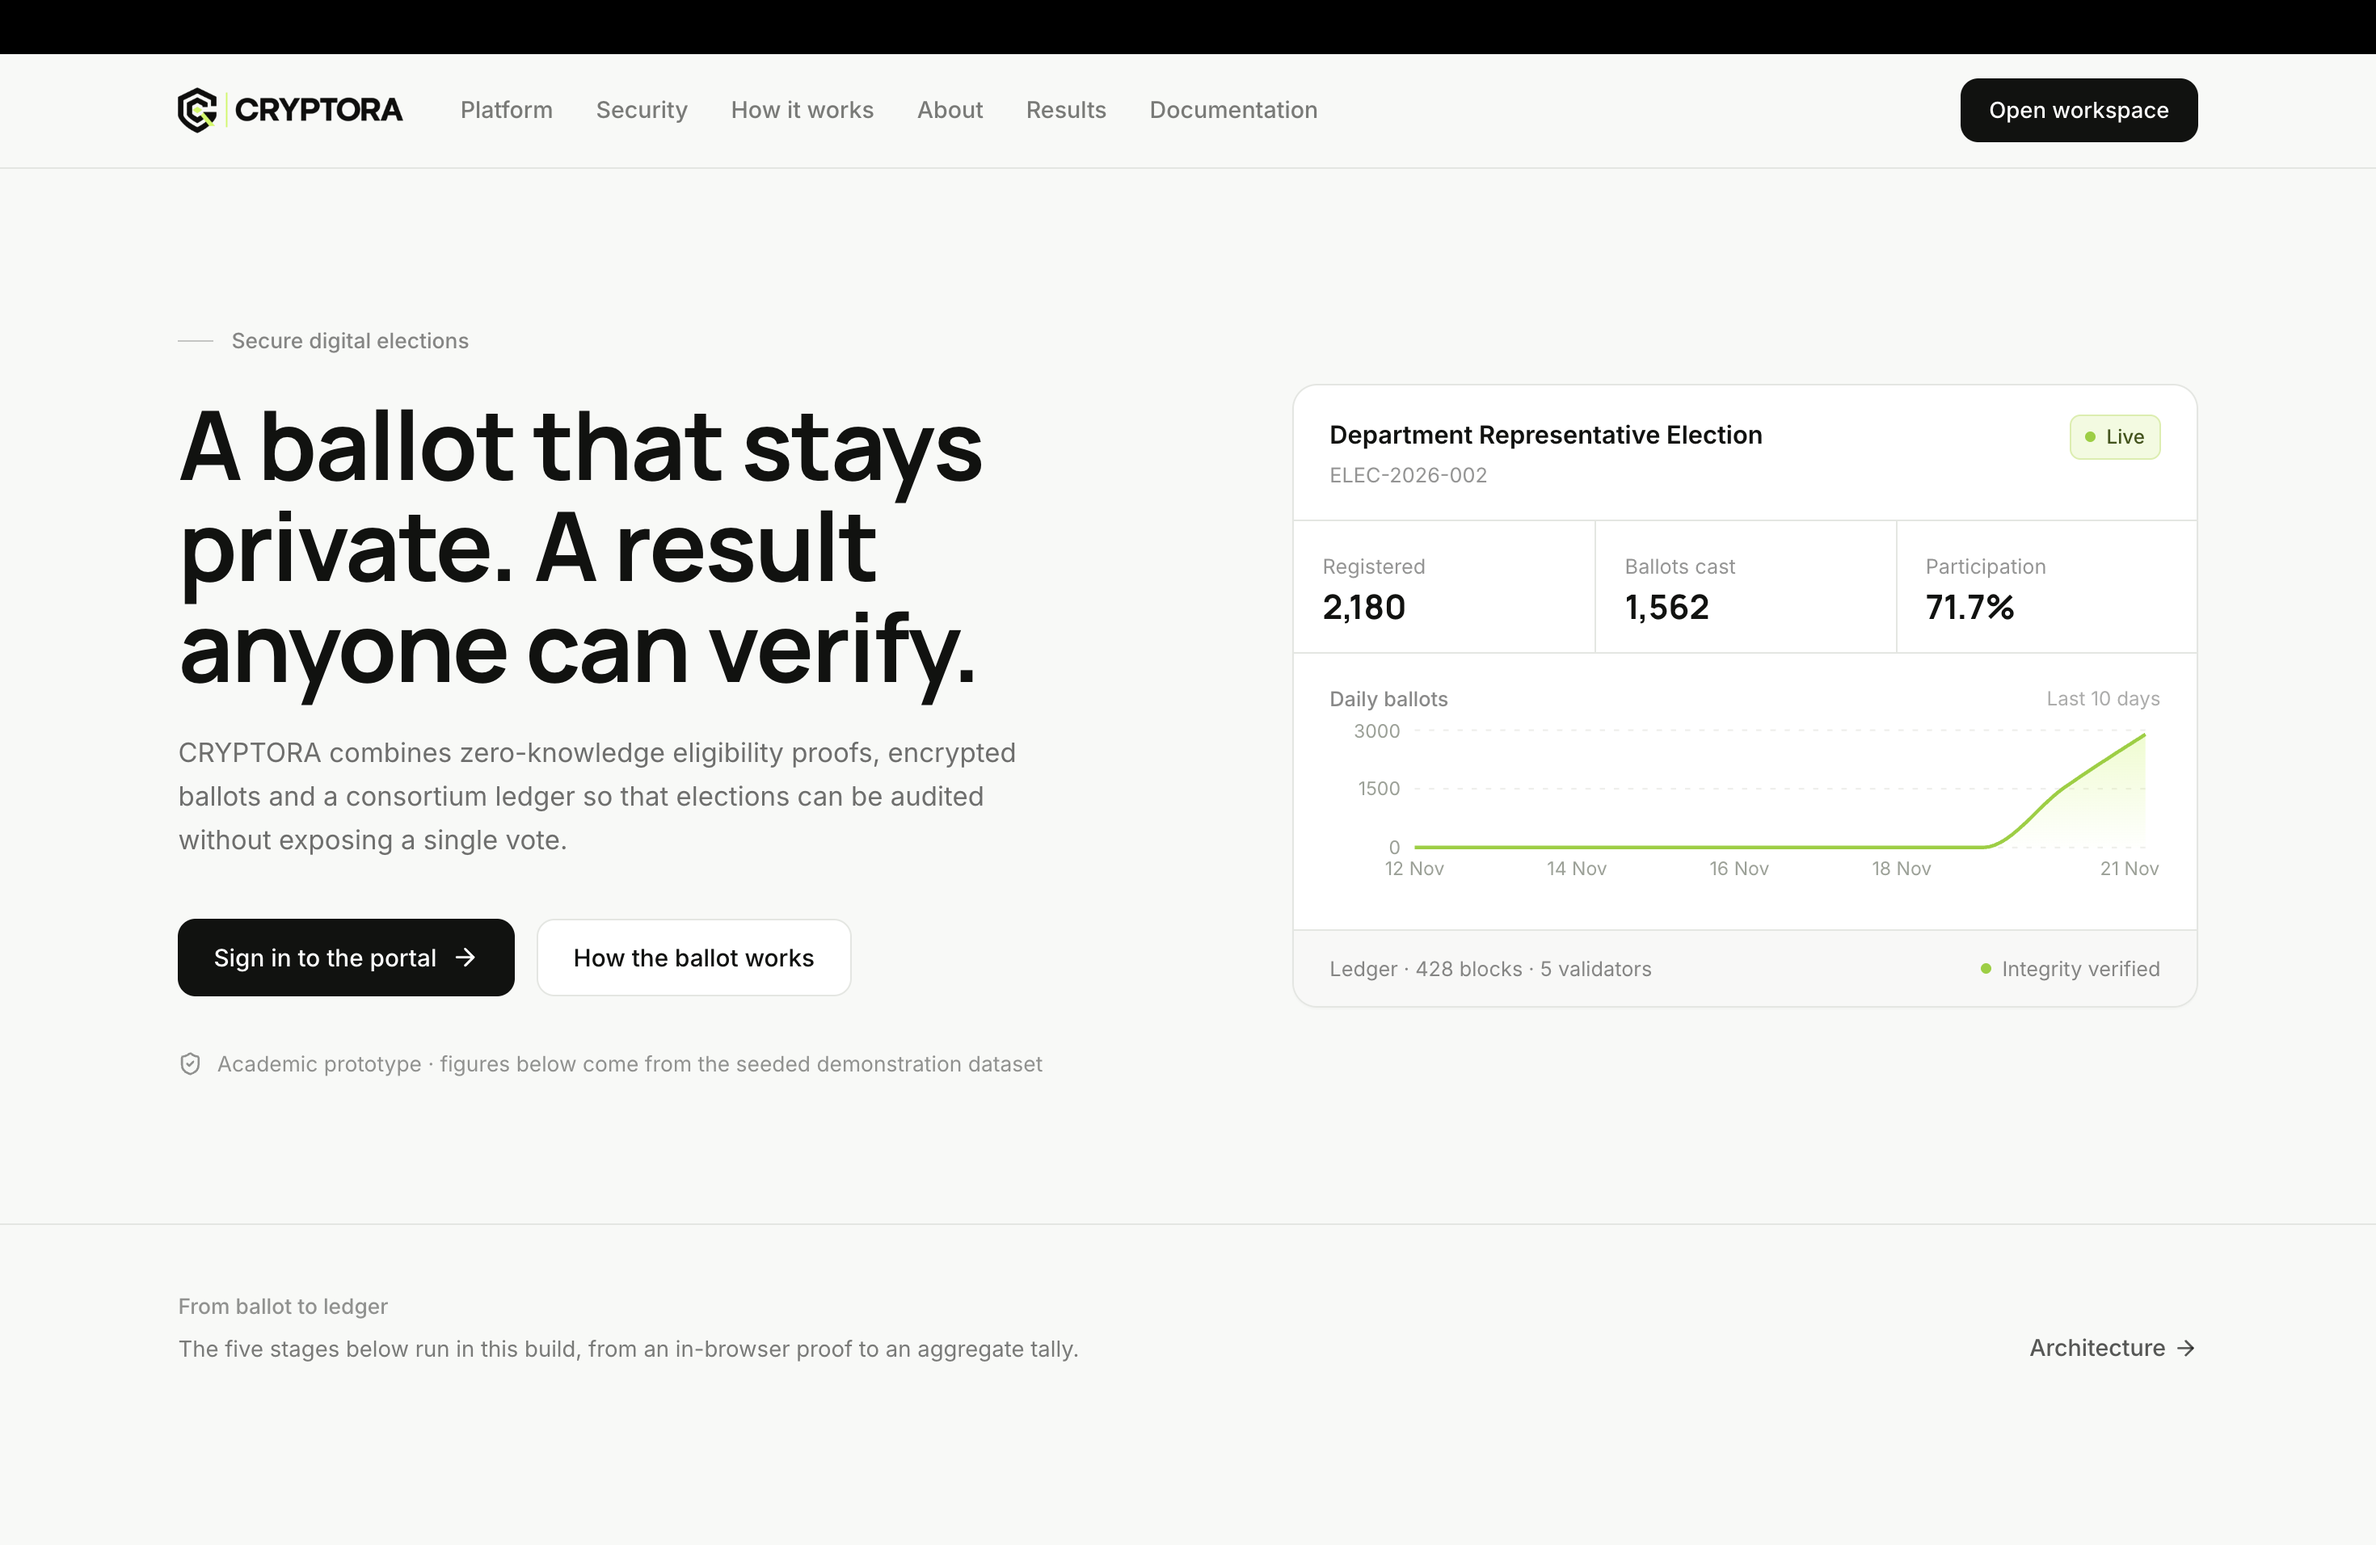
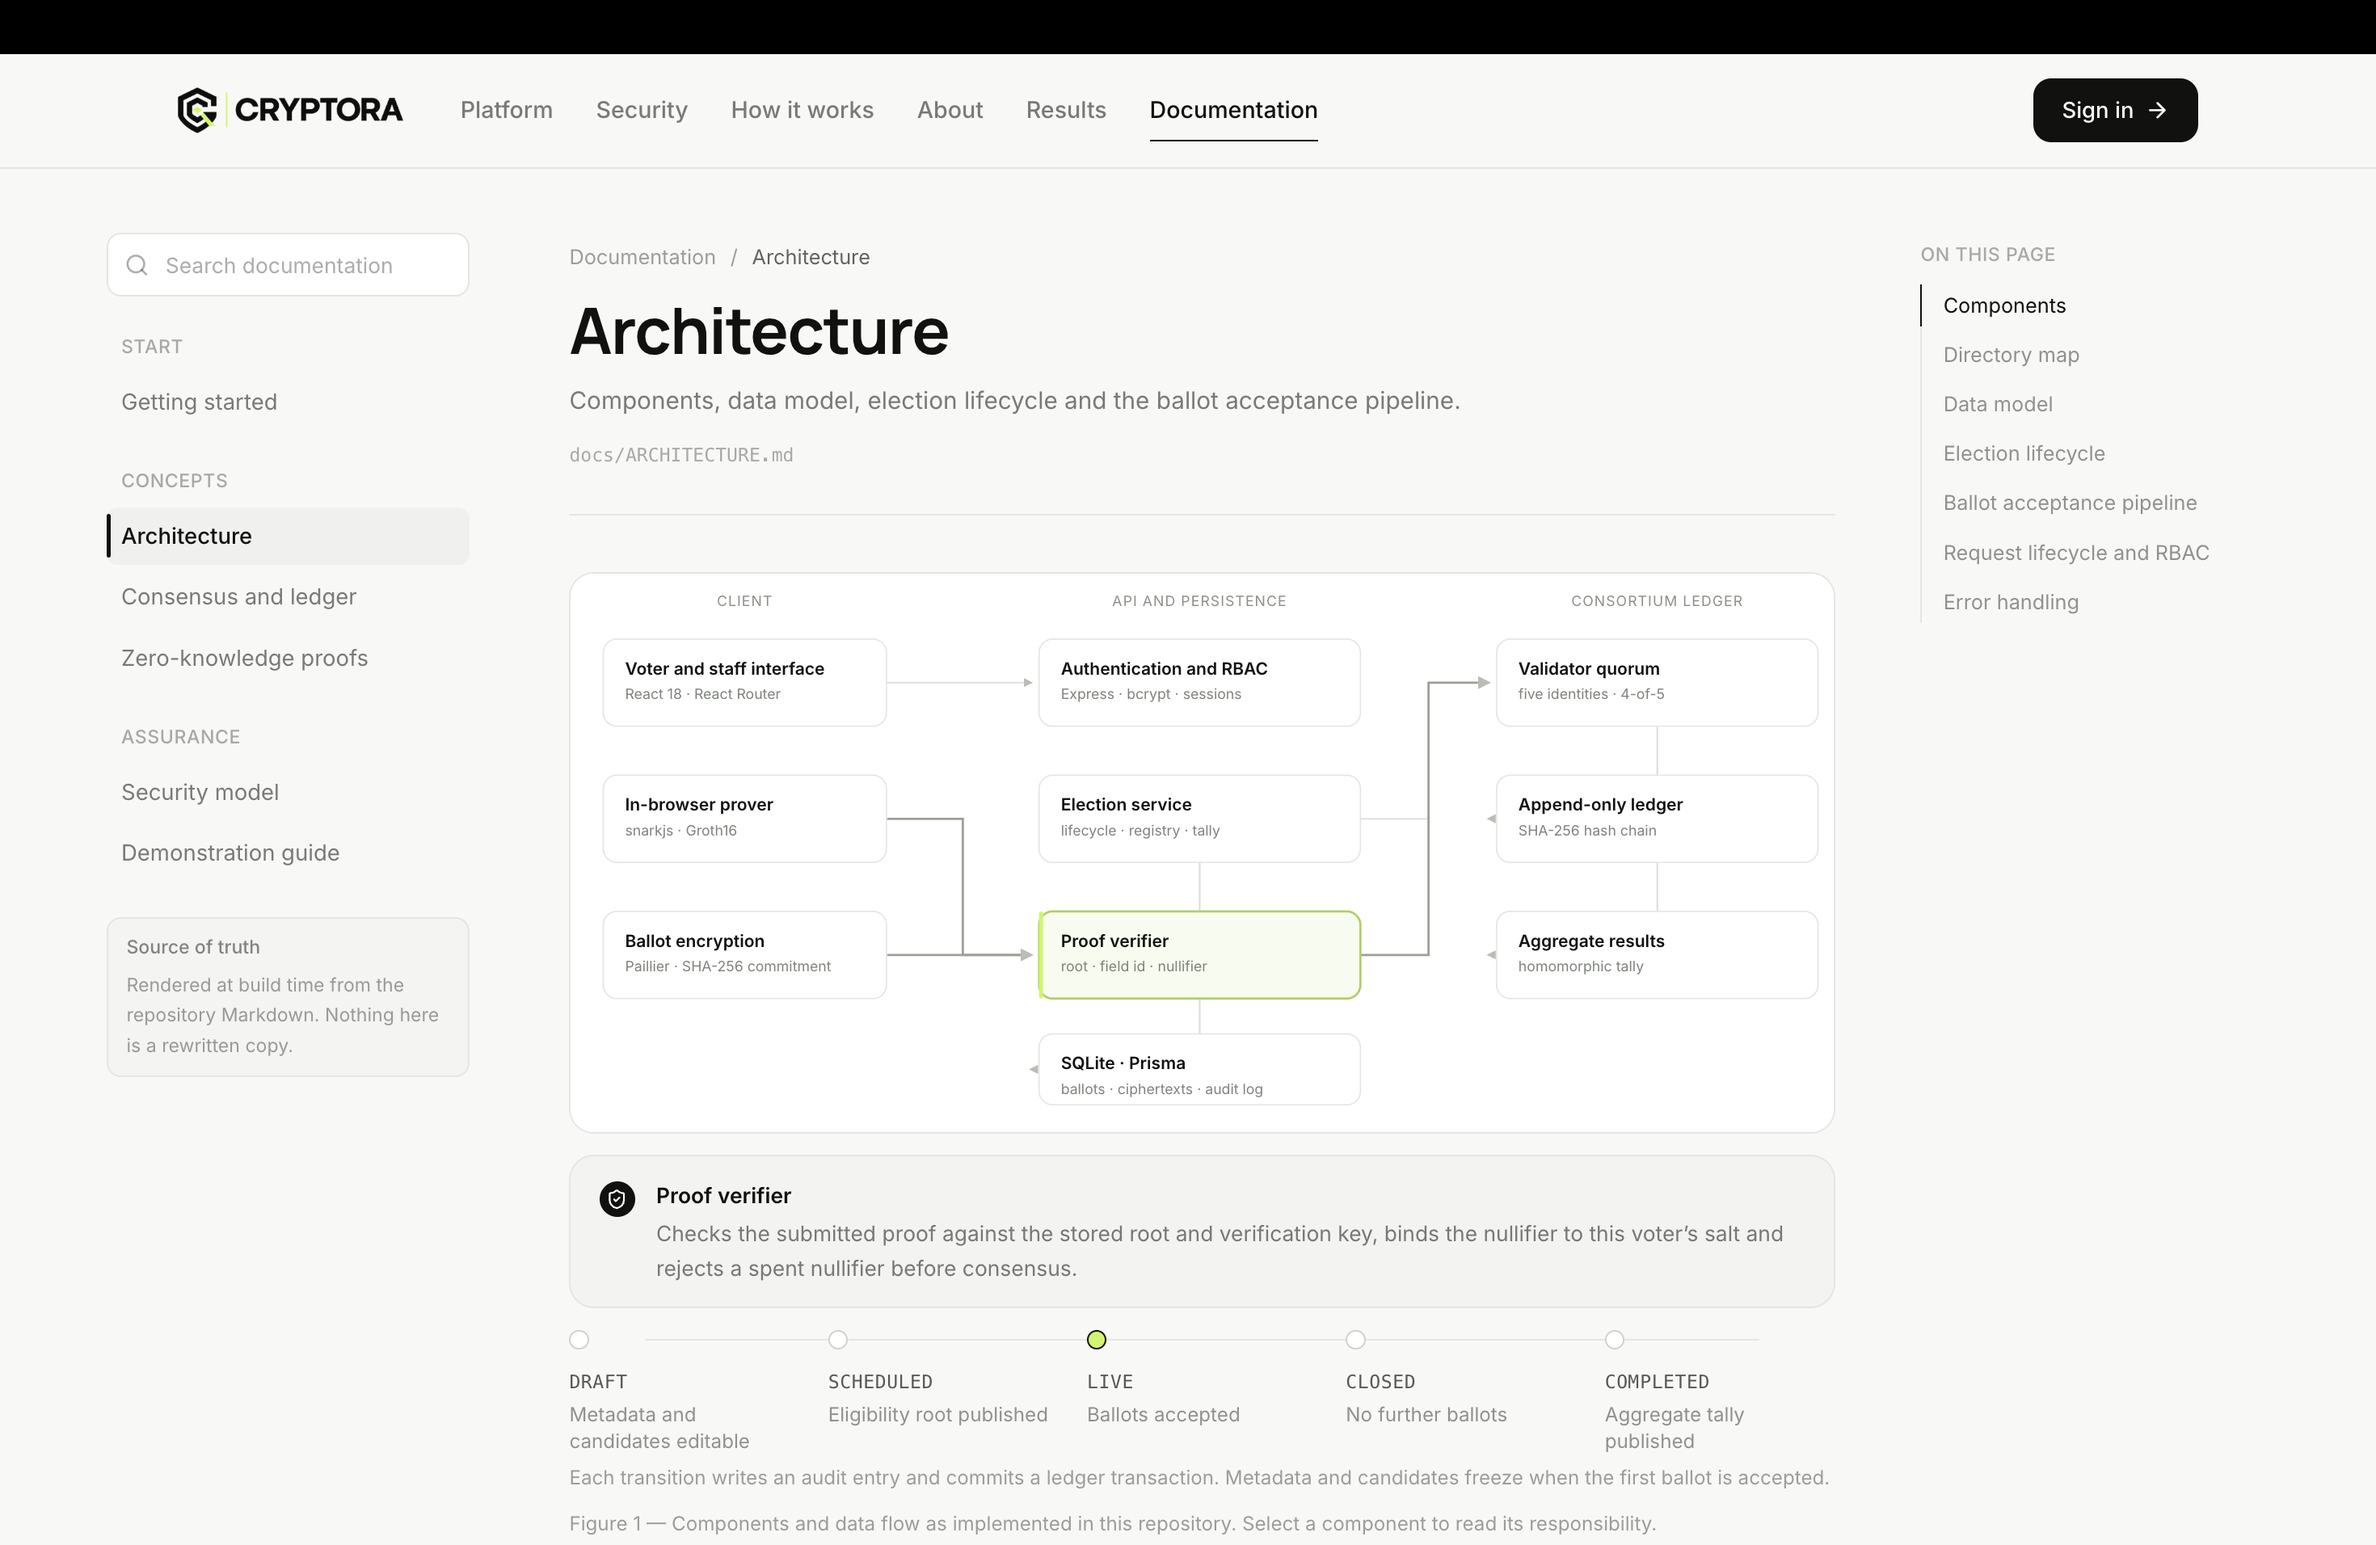
Add all 6 final cryptora screenshots

diff --git a/readme.md b/readme.md
@@ -41,6 +41,8 @@ nothing in the system stores a plaintext ballot, and no api response joins a vot
 | screenshot 1 | screenshot 2 |
 | --- | --- |
 | ![screenshot 1](screenshots/cryptora-screenshot-1.png) | ![screenshot 2](screenshots/cryptora-screenshot-2.png) |
+| ![screenshot 3](screenshots/cryptora-screenshot-3.png) | ![screenshot 4](screenshots/cryptora-screenshot-4.png) |
+| ![screenshot 5](screenshots/cryptora-screenshot-5.png) | ![screenshot 6](screenshots/cryptora-screenshot-6.png) |
 
 to capture: run `npm run dev`, open <http://localhost:5173>, and take screenshots of each view.
 
